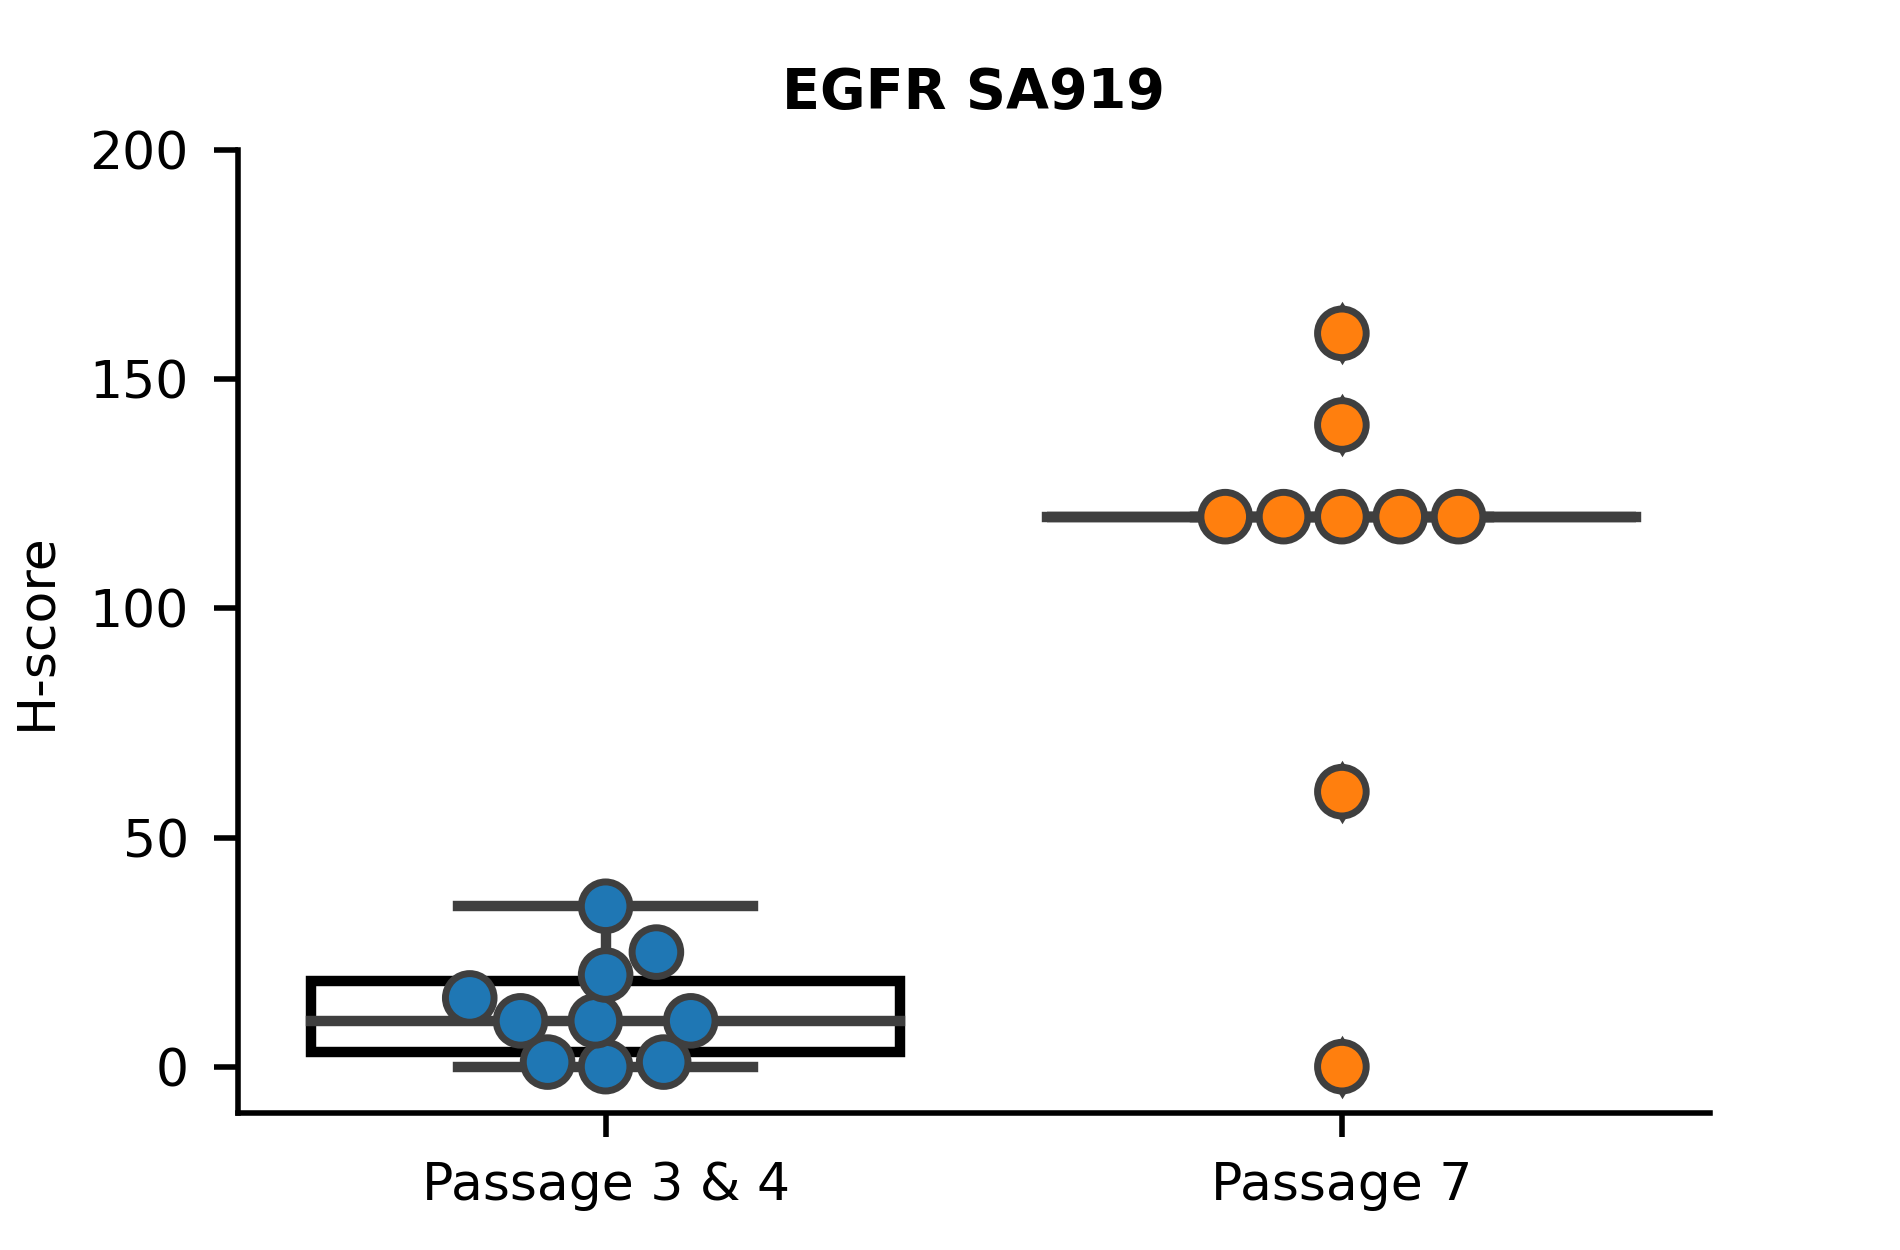
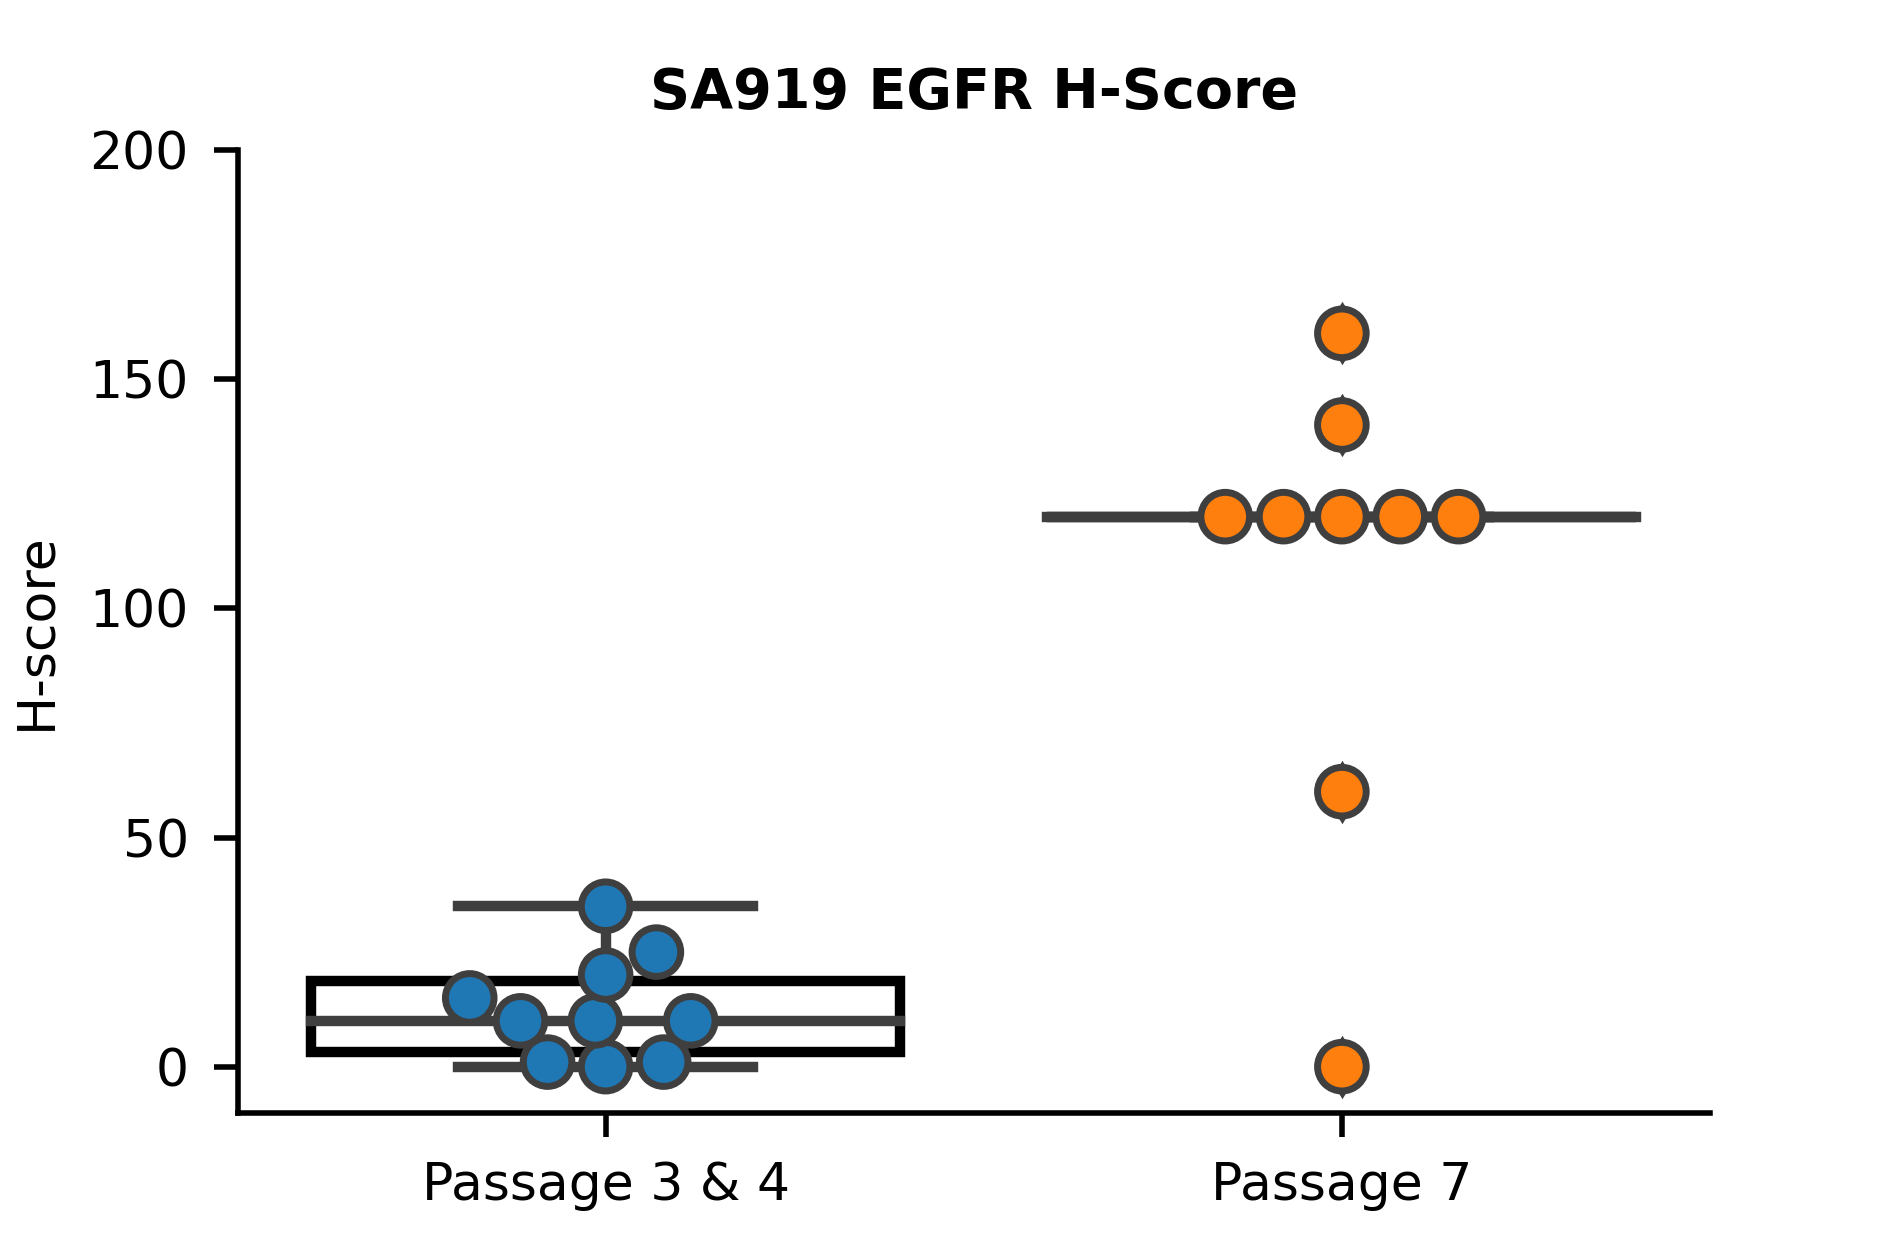
New manuscript figs

Changed region(s): [[0.3416, 0.0312, 0.6832, 0.0936]]

diff --git a/figures/metastasis_manuscript_fig.py b/figures/metastasis_manuscript_fig.py
@@ -122,7 +122,7 @@ if __name__ == '__main__':
     ax.set_xticklabels(["Passage 3 & 4", "Passage 7"])
     plt.xlabel("", fontsize=6)
     plt.ylabel("H-score", fontsize=7.5)
-    plt.title("EGFR SA919", weight='bold', fontsize=8)
+    plt.title("SA919 EGFR H-Score", weight='bold', fontsize=8)
     plt.savefig("figures/output/fig8_919_egfr.png", dpi=500)
     plt.clf()
 
